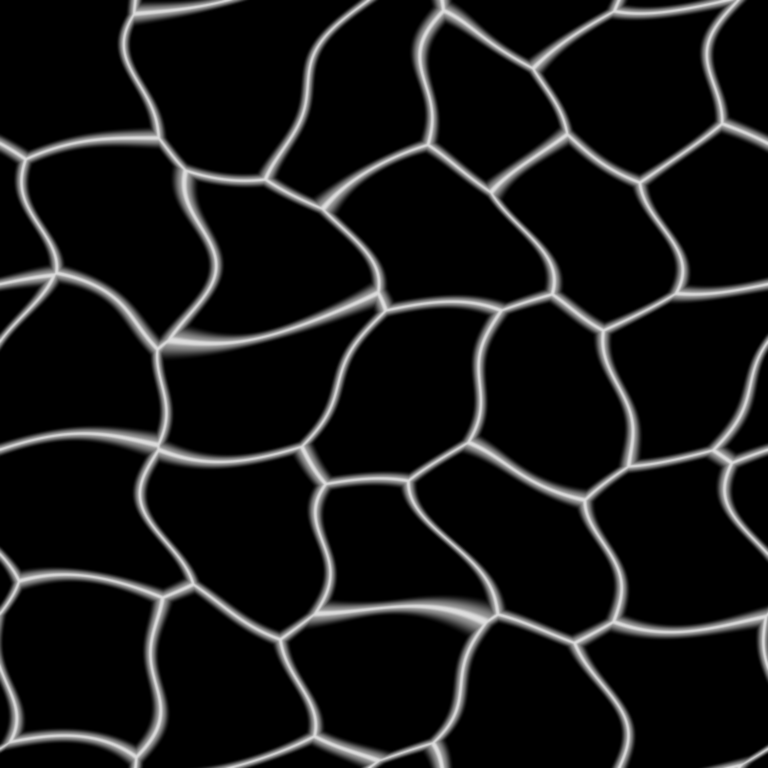
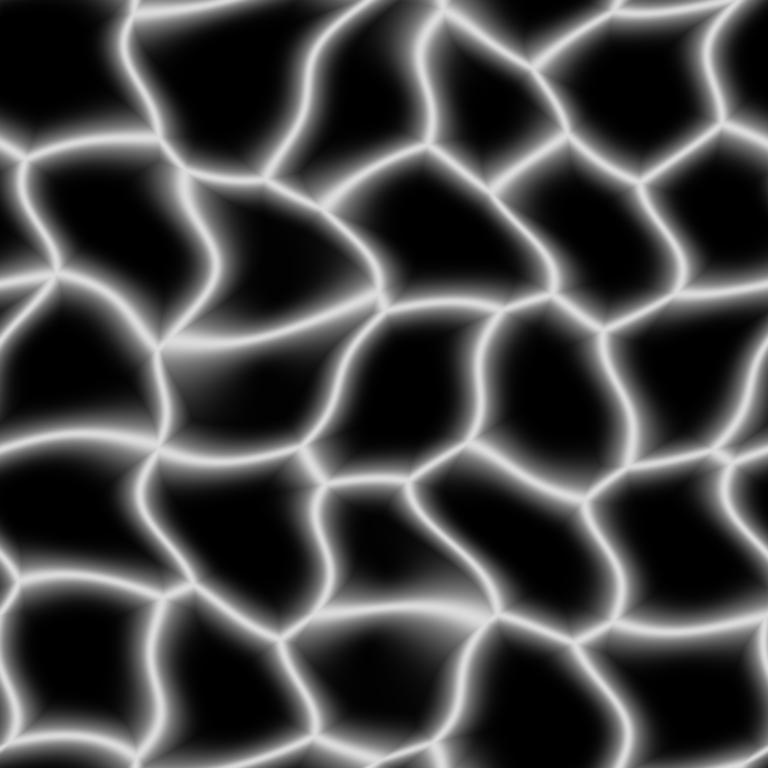
fix(pond): make caustics focus and reshape independently of panning

diff --git a/tools/dev/pond_art_android_qa.py b/tools/dev/pond_art_android_qa.py
@@ -85,6 +85,14 @@ try:
         adb('shell', 'wm', 'size', '390x844')
         capture('gourd', 'portrait')
         adb('shell', 'wm', 'size', 'reset')
+        # Android's resize education can cover the surface without appearing
+        # in the active app's UI tree. Record from a fresh landscape activity
+        # after all size changes; keep this isolated package's files intact.
+        activity = adb('shell', 'cmd', 'package', 'resolve-activity', '--brief', PACKAGE).decode().strip().splitlines()[-1]
+        assert activity.startswith(PACKAGE + '/'), activity
+        adb('shell', 'am', 'force-stop', PACKAGE)
+        adb('shell', 'am', 'start', '-W', '-n', activity)
+        print('RECORDING_COLD_START', activity, flush=True)
     motion = capture('gourd', 'reference', True)
     dismiss_system_tips()
     performance = wait_json('pond-art/performance.json', lambda r: r['request_id'] == motion['request_id'])

diff --git a/tools/art/bake_pond_bed.py b/tools/art/bake_pond_bed.py
@@ -95,7 +95,9 @@ def bake_caustics():
             second = np.minimum(second,np.maximum(nearest,d))
             nearest = np.minimum(nearest,d)
     ridge = second-nearest
-    web = (1-smooth(.012,.105,ridge))*.62+(1-smooth(.005,.027,ridge))*.25
+    # Broad falloff around each focus band survives dual-layer intersection;
+    # the former thin edge network reduced min blending to isolated pinpoints.
+    web = np.exp(-(ridge/.25)**2)*.56 + np.exp(-(ridge/.075)**2)*.30
     Image.fromarray(np.uint8(np.clip(web,0,1)*255)).filter(ImageFilter.GaussianBlur(.75)).save(OUT/'caustic_web.png')
 
 if __name__ == '__main__':

diff --git a/docs/qa/pond-caustics-motion-2026-09-30.md b/docs/qa/pond-caustics-motion-2026-09-30.md
@@ -1,0 +1,28 @@
+# 焦散动态修正验证
+
+2026-09-30，基于 `2d3797d`。用户反馈上版仍像平移；本轮重新核对原网页动图，移除占主导的固定光纹，使用宽光带的完整双层交集与三组独立波动形变。[设计与原因](../design/pond-caustics-motion-2026-09-30.md)
+
+## 动态证据
+
+- [12 秒同步对比视频](../../output/pond-caustics-motion-2026-09-30/motion-comparison-final.mp4)：前 6 秒为上版／新版，后 6 秒为新版／关闭纹理平移。均为 Godot Metal/Mobile 实际渲染，640×400 每侧，24 FPS，Shader 时间从 12 秒开始，以相同步长捕获。历史 Shader 和历史焦散纹理从保存副本临时载入，没有用新版纹理冒充旧版。
+- [静态对比](../../output/pond-caustics-motion-2026-09-30/before-after.png)用于确认水色与场景；不能单独证明动画形变。
+- [灰度控制画面](../../output/pond-caustics-motion-2026-09-30/motion-proof.png)只显示焦散并固定诊断深度，排除高光、鱼、水底颜色和折射的干扰。关闭平移时，选定水域两秒间 RGB 平均差为 79.317 / 255，90.8% 像素变化超过 5；同时冻结形变后，该区域差异为 0。这是动作来源验证，不是参考还原评分。[原始指标与区域](../../output/pond-caustics-motion-2026-09-30/motion-proof.json)
+
+## 回归与 Android
+
+- 现有 `tests/ponds` 12 项通过，0 errors / failures / orphans。[日志](../../output/pond-caustics-motion-2026-09-30/tests-ponds.log)
+- 三种池形、近景和 390×844 竖屏均完成 Metal 与 Vulkan / Mobile 捕获。五组相同相机、Shader 时间、参数、Shader 及解码纹理哈希的 RGB 平均差为 0.2873–0.4541 / 255；竖屏排除上下各 90px 的 HUD／安全区偏移。[详情](../../output/pond-caustics-motion-2026-09-30/parity.json)
+- [Android 最终 12 秒实录](../../output/pond-caustics-motion-2026-09-30/android/water-motion-android.mp4)及[抽帧](../../output/pond-caustics-motion-2026-09-30/android-video-review.png)已复核，没有系统提示遮挡。最终 24 次预热后短采样均为 60 FPS，draw calls 为 32、primitives 为 1,044,584；未测实体手机 GPU 耗时。[性能](../../output/pond-caustics-motion-2026-09-30/performance-summary.json)
+- 焦散保留两次采样和原有绘制 pass，新增三次正弦计算。没有新增投影几何或场景深度读取；原法线、反射和表面高光参数保留。
+- 隔离 QA 包为 `com.sensen.pondart.calmcloud`，设备 `emulator-5586`，ADB 5053。APK 完整回读和导入纹理字节检查通过，全部捕获 `network_booted=false`。runner 停止应用，模拟器保持运行，尺寸恢复为 1280×800。[APK 证据](../../output/pond-caustics-motion-2026-09-30/apk-validation.json)
+
+首轮 Android 录像再次出现尺寸切换后的系统教育遮罩，默认 UI 树并未暴露该窗口。此序列归档为 `android-obscured`，不作为最终录像／性能证据。录制流程现在在尺寸测试结束、恢复横屏后，冷启动同一个隔离预览包再测量和录像；没有清除数据或触碰其他应用。修改后重跑完整序列，最终日志含 `RECORDING_COLD_START`，成片已复核。
+
[2 lines of base64/hex data omitted]
+
+## 飞书交付
+
+Gensen 本人评审会话中，对比图 `om_x100b64fde89eb088b16fa509240e58b` 和同步对比视频 `om_x100b64fde34e68a0b3b4c4c53aadcca` 已发送并回读确认。文件名 `Gensen-caustic-motion-comparison.mp4`，时长 12 秒、封面一致。[视频消息](https://applink.feishu.cn/client/chat/open?openChatId=oc_b984c6fc14e05e62e6cfd5af2c95ffa6&position=162)、[回读证据](../../output/pond-caustics-motion-2026-09-30/feishu-delivery/messages-readback.json)。
+
+没有发送 APK、更新实体手机、部署服务或操作玩家数据。旧版标签和历史提交保持可用，视觉取舍仍由用户评审。

diff --git a/docs/design/pond-caustics-motion-2026-09-30.md b/docs/design/pond-caustics-motion-2026-09-30.md
@@ -1,0 +1,27 @@
+# 焦散形变修正
+
+用户反馈 `2d3797d` 仍主要表现为平移，没有网页演示里的焦散变化。本轮成功读取[原文](https://veltrynox.github.io/caustics.html)及其 40 帧、4 秒演示 GIF，结合用户提供的 HLSL 重新核对动态机制。
+
+## 上版的问题
+
+上版为避免碎点，保留了 70% 主层光纹，只让两层交集占 30%。这保住了一个持续平移的固定网格。Alpha 中的低频扰动又仅随较慢的纹理 UV 移动，变化不足以改变整体运动观感。原有细网格纹理也不适合完整的双层 `min` 混合，交集会退化为稀疏小点。
+
+这些是视觉取舍造成的简化，不是移动端必然只能做到平移。上轮平台一致性、FPS 和资源校验均不能证明动态效果达到了参考。
+
+## 本轮实现
+
+- 默认使用完整双层交集，取消占主导的固定主层骨架。
+- 焦散基础纹理改为较宽、柔和的光带，双层交集形成局部聚焦、消退和重组。
+- 三组不同空间方向、时间相位的宽波提供独立形变，时间频率为 0.90、-1.25、1.65 rad/s。它们与表面法线强度分开控制，保持 30% 弱法线。
+- 纹理平移减到上版 25%，`caustic_pan_speed=0` 可以只看形变；`caustic_motion_speed=0` 冻结形变相位。
+- 保留屏幕导数／水深 Mip 柔化与深度衰减 1.35；焦散强度调整为 2.2，使交集的亮度变化在现有明亮水色中可见。水色、HDR 反射和表面高光参数不变，局部亮度会随新焦散改变。
+
+焦散仍为两次纹理采样，没有增加投影 pass 或深度纹理读取。本轮增加三次正弦求值；原 Alpha 低频数据保留，便于准确重现上版对照，但不再驱动新版焦散。没有复用原文缺失的 `WaterCommon.hlsl` 波浪模型，也不声称与网页逐像素一致。
+
+## 以动画验证
+
+离线预览新增固定时间步序列输出，并可临时读取历史 Shader／焦散纹理用于同机位对比，不修改当前运行资源。每组每秒 24 帧，旧版、新版和关闭平移版使用相同相机与时刻。
+
+灰度诊断只显示焦散，排除表面高光、鱼、水底颜色及折射深度对判断的干扰。关闭平移后，同一区域两秒间仍明显变化；同时冻结形变后，区域像素完全一致。该控制验证动态来源，不作为视觉还原评分。
+
+验证结果与交付见 [QA 记录](../qa/pond-caustics-motion-2026-09-30.md)。

diff --git a/AGENTS.md b/AGENTS.md
@@ -1,5 +1,22 @@
 # Product Direction
 
+- Caustic motion corrected on 2026-09-30 after the user said 2d3797d still
+  looked like panning. The original web GIF was retrieved and reviewed. The
+  70% primary skeleton / slow alpha warp is superseded by full intersection
+  of broader light bands, three independently phased broad waves, 25% panning
+  and strength 2.2. Preserve the 30% surface normal, palette and surface glints.
+  Two caustic texture reads remain; three sine evaluations are added, with no
+  extra projection pass. No-pan grayscale controls still morph; freezing both
+  panning and wave phase yields identical pixels in the checked water region.
+  12 pond checks, five Metal/Vulkan pairs and full APK readback passed. Final
+  emulator samples are 24 x 60 FPS / 32 draws, not physical GPU timing.
+  Android resize education was absent from the active UI tree; the QA runner
+  now cold-starts the isolated app after size changes before recording. Final
+  video is unobscured. The image and synchronized before/after + no-pan video
+  are sent/readback-verified in Gensen Feishu self review. No APK/phone/release.
+  See docs/design/pond-caustics-motion-2026-09-30.md and
+  docs/qa/pond-caustics-motion-2026-09-30.md. All prior tags/commits remain.
+
 - Mobile caustics integrated on 2026-09-30 after the user supplied the
   CausticsProjector HLSL. Two monochrome samples now share the existing water
   pass and atlas depth. A broad wave band is baked into ripple texture alpha;
